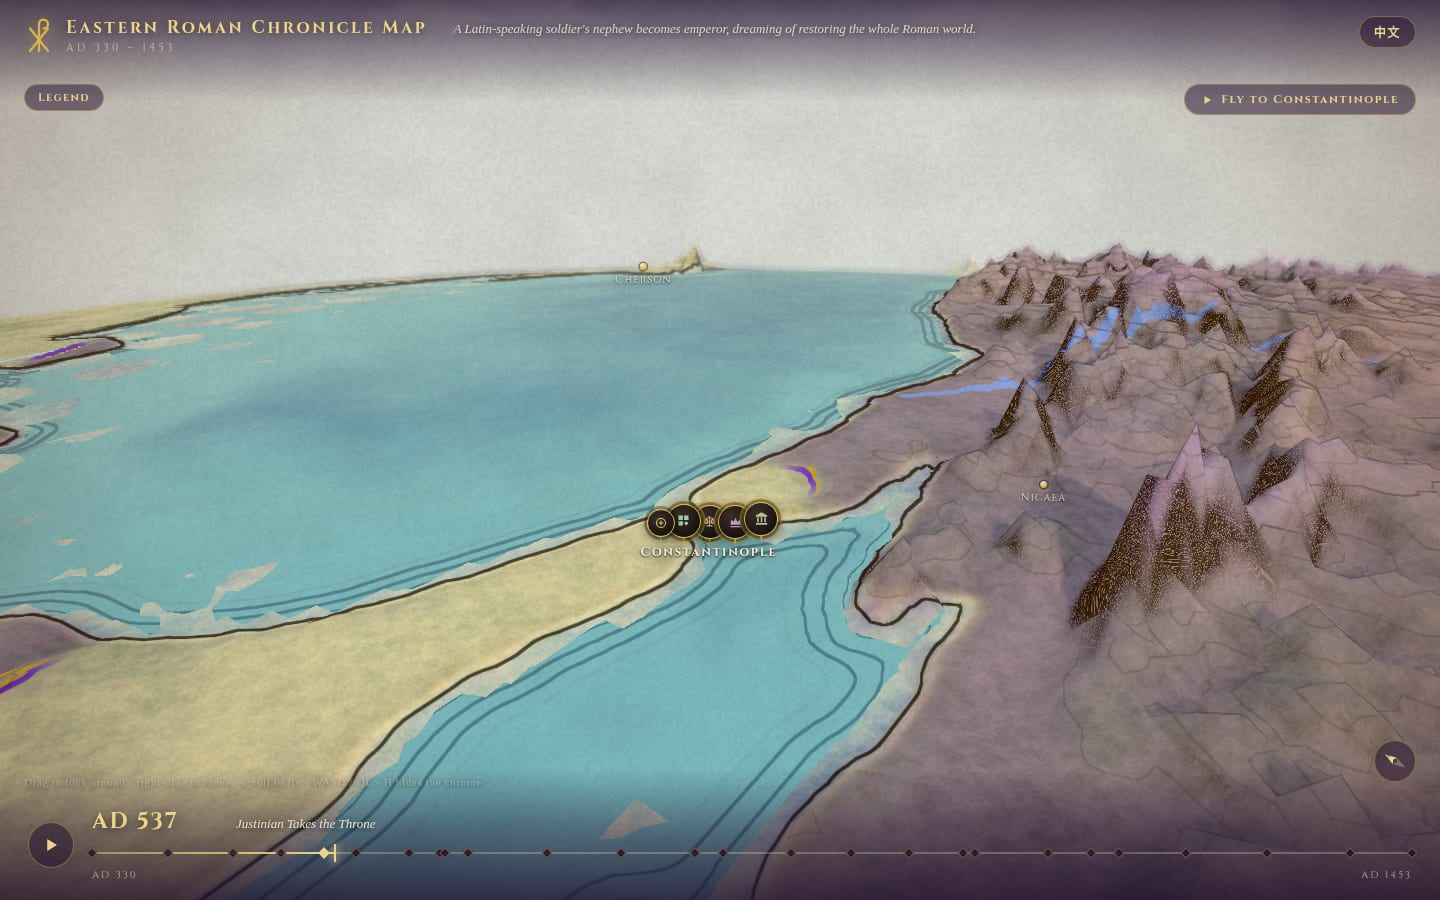
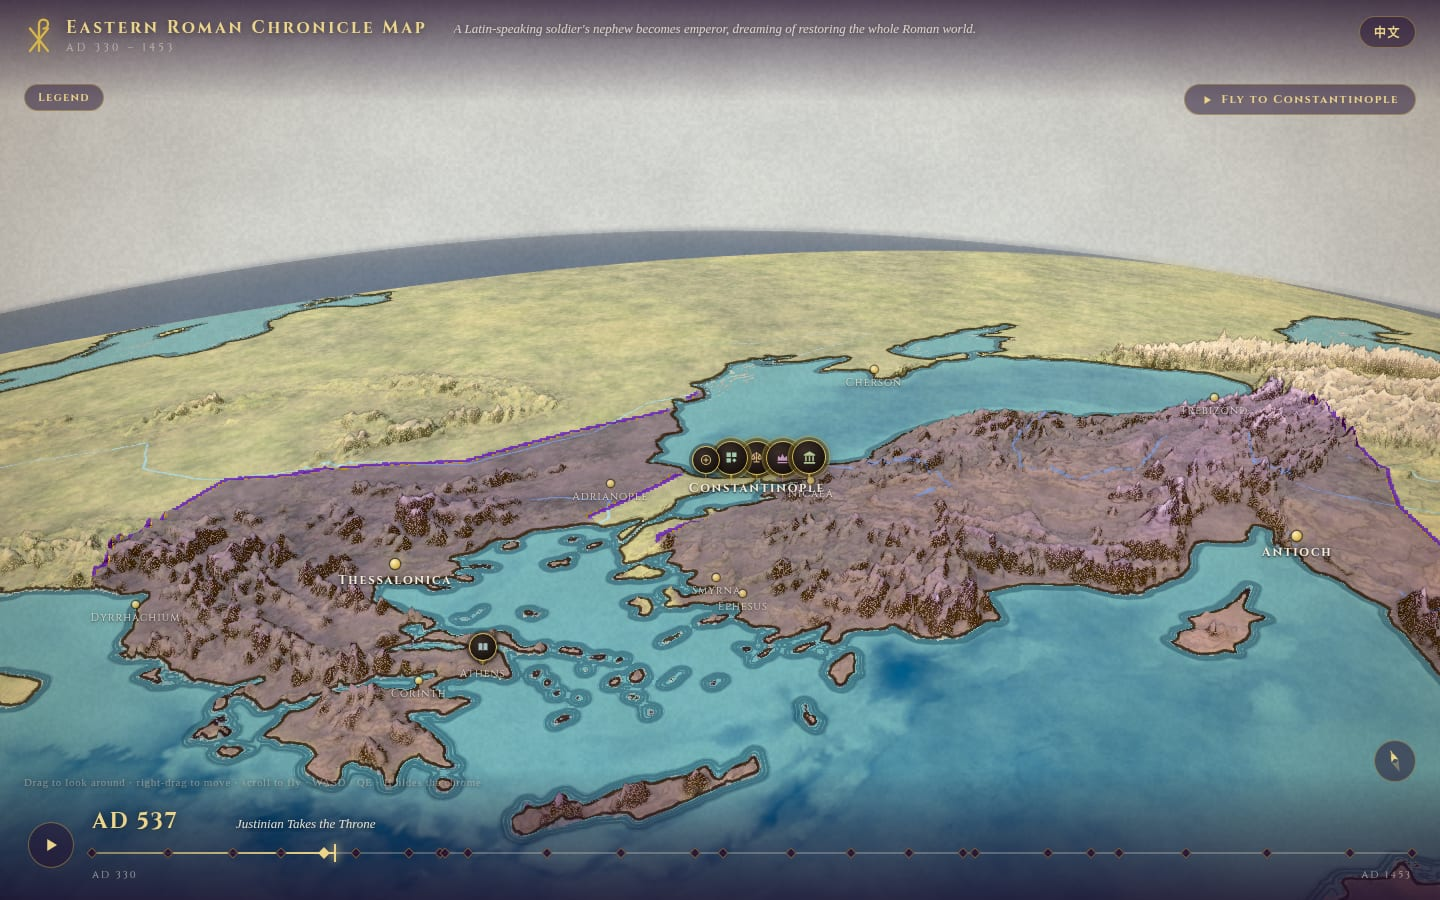
docs: wider continental views in the README
- Remove the outdated prototype collage, which showed the old pop-up
  Constantinople on the continental map.
- Take the continental view from higher up, so it covers Greece, the
  Aegean and Asia Minor with Constantinople as a plain marker.
- Replace the Hagia Sophia close-up with a still wider continental view
  (Italy to Egypt); the Golden Horn view already shows Hagia Sophia.

diff --git a/README.md b/README.md
@@ -9,8 +9,6 @@ where they happened. Fly down into Constantinople and the map gives way to the c
 itself, set like a floor mosaic, with its walls, churches and houses standing up
 from the page.
 
-![Living chronicle map: overview, imperial frontier, low flight, mountains, pop-up Constantinople by day and in 1453](docs/screenshots/chronicle-prototype.jpg)
-
 ## Constantinople
 
 On the continental map, Constantinople is a city like the others. Fly low toward it,
@@ -24,8 +22,8 @@ the timeline: walls rise and fall, and Hagia Sophia is rebuilt. Climb high, or p
 
 | The continental view | The city view |
 |---|---|
-| ![Constantinople as a marker on the continental map, AD 537](docs/screenshots/constantinople-1-continental-537.jpg) | ![The city view of Constantinople in AD 537, set as a floor mosaic](docs/screenshots/constantinople-2-city-view-537.jpg) |
-| ![Across the Golden Horn from Sykai (Galata) to the sea walls and Hagia Sophia](docs/screenshots/constantinople-3-golden-horn-537.jpg) | ![Justinian's Hagia Sophia in 537, with its great lead-covered dome, over the sea walls](docs/screenshots/constantinople-4-hagia-sophia-537.jpg) |
+| ![The continental map in AD 537: Greece, the Aegean and Asia Minor, with Constantinople as a city marker](docs/screenshots/constantinople-1-continental-537.jpg) | ![The city view of Constantinople in AD 537, set as a floor mosaic](docs/screenshots/constantinople-2-city-view-537.jpg) |
+| ![The continental map from higher up in AD 537: Italy, Greece, Asia Minor, the Levant and Egypt](docs/screenshots/constantinople-4-mediterranean-537.jpg) | ![Across the Golden Horn from Sykai (Galata) to the sea walls and Hagia Sophia](docs/screenshots/constantinople-3-golden-horn-537.jpg) |
 
 ## Running
 
